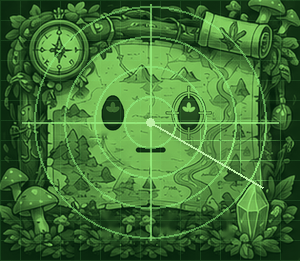
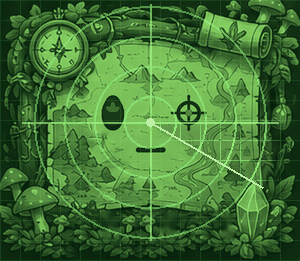
Herbie scanning 4/5: pair a normal eye with the scanning-2 target eye

Changed region(s): [[0.54, 0.3372, 0.72, 0.5211]]

diff --git a/tools/herbie/build_faces.py b/tools/herbie/build_faces.py
@@ -807,11 +807,12 @@ def _bounce(dy, look_y):
 
 def _split_scan(reticle_side):
     def draw(c):
+        # one normal eye, the other the crosshair target eye used in scanning-2 (the focused face)
         if reticle_side == 'R':
             eye_open(c, EYE_L)
-            eye_reticle(c, EYE_R)
+            eye_target(c, EYE_R)
         else:
-            eye_reticle(c, EYE_L)
+            eye_target(c, EYE_L)
             eye_open(c, EYE_R)
         mouth_flat(c, 12)
     return draw
